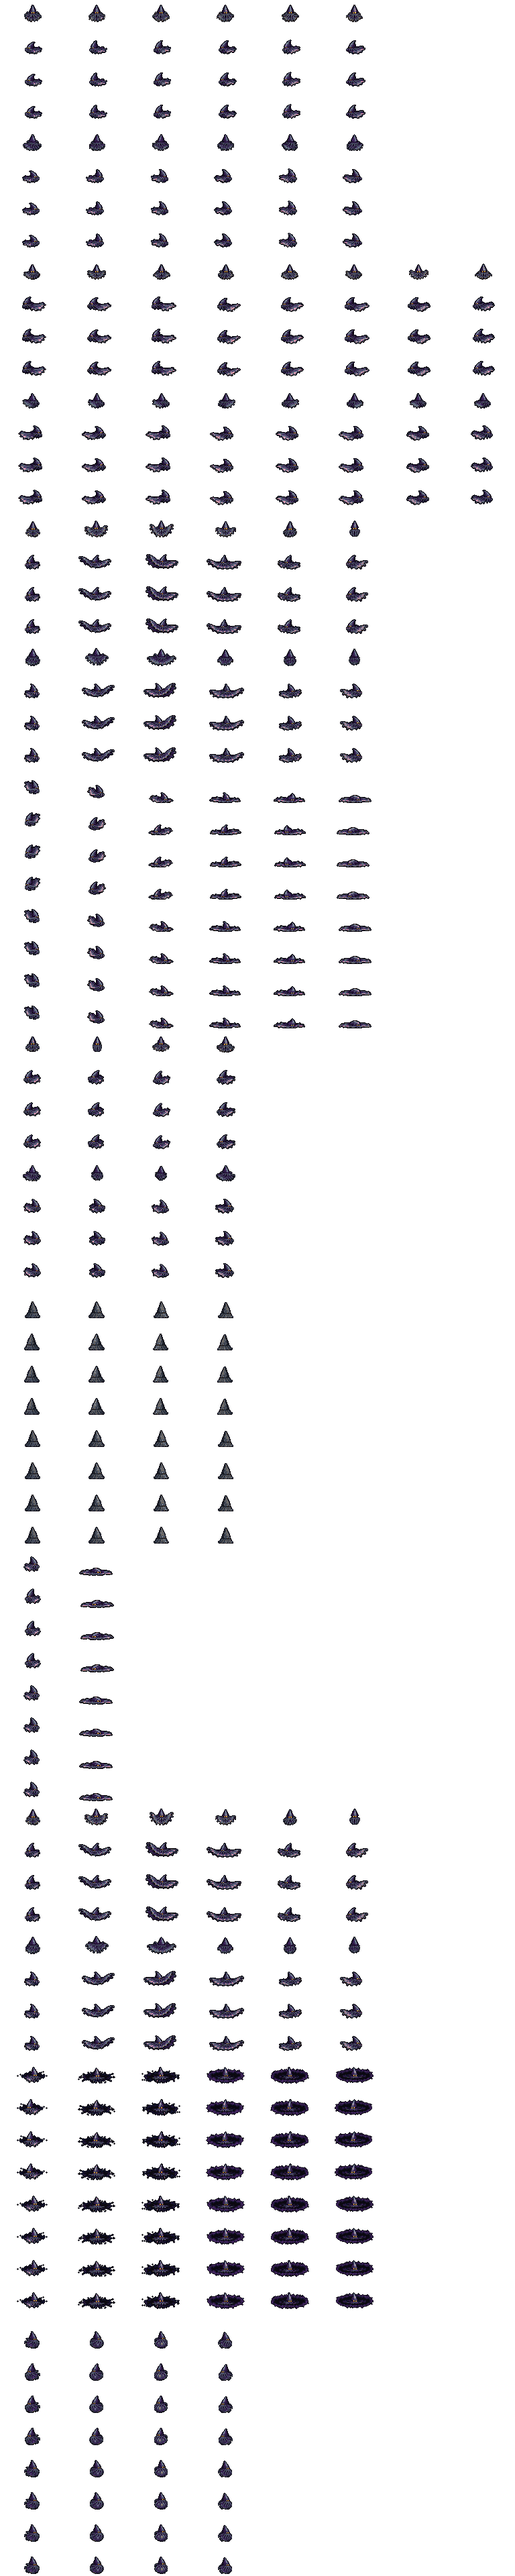
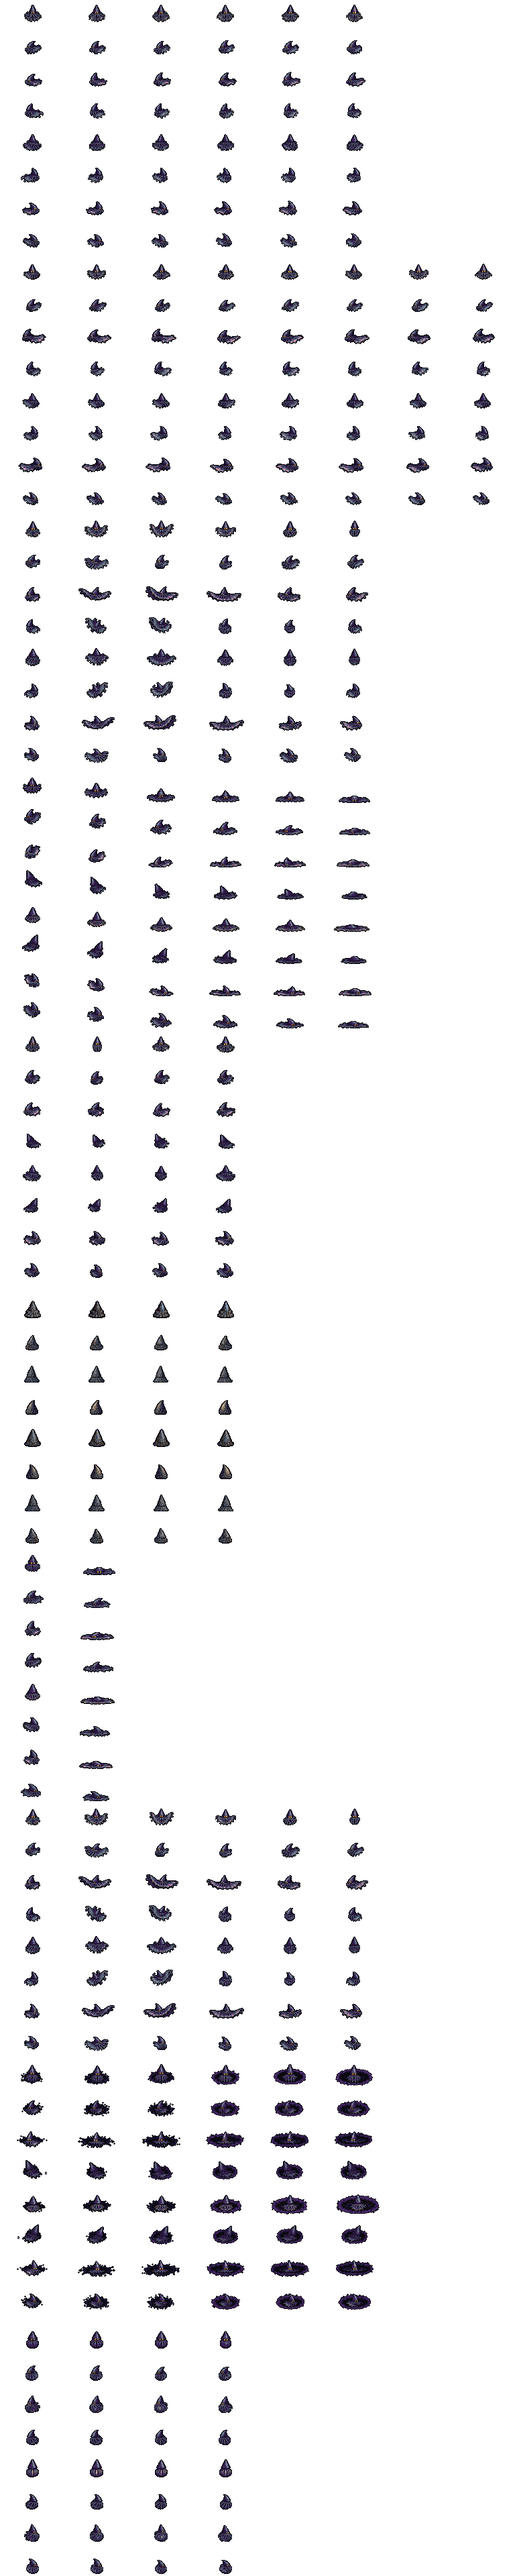
The darkmantle in all eight facings: the art desk's ART-38 cut onto darkmantle_p2 (SE/SW, NE/NW every row; S and N the rest)
ART-38's eight pages (sorted out of Fresh to deep16/_src/darkmantle/ART-38/) cut by their own row and number labels in
tools/darkmantle-sheet.py, through the four sheets' own frames_of (the hover, Fall's drop, Prone backwards, Clamp's lowest
pixel on ay, Still on the floor): SE and NE every row (Idle, Fly, Crush, Darkness, Flinch, Fall, Prone, Clamp, Still), S and N
Darkness, Fall, Prone, Clamp and Still. E and W, and S and N's Idle, Fly, Crush and Flinch, byte for byte. SE by the mantle
against its side row, S by its upright rows' mantles, NE and N (no eyes) each row by area against its SE or S row; toned by the
mantle to the side idle, the Still to the side's Still. Two label traps: Clamp's 'p' (H2P3) and a Darkness ring touching its
'6' (H5P1). The show plays every row it fights with twice, the Clamp the attach rides on among them.

Griz, 2026-10-21, to the lanes desk: "Spin a single monster cutter instance up (choose your own from Fresh!) and have one
going after another finishes until we approach session limit (90%)".

diff --git a/deep16/data/sprites.js b/deep16/data/sprites.js
@@ -2732,7 +2732,7 @@
 }
 },
 "darkmantle_p2": {
-"image": "art/darkmantle_p2.png?v=7a0ffcf678",
+"image": "art/darkmantle_p2.png?v=ff8d474afc",
 "fw": 96,
 "fh": 48,
 "ax": 48,
@@ -2830,7 +2830,7 @@
 "fps": 3
 }
 },
-"source": "generated by Griz (2026-10-08: the body and its rows, its Clamp and Still, from the front, from behind -- four GPT sheets), cut by tools/darkmantle-sheet.py"
+"source": "generated by Griz (2026-10-08: the body and its rows, its Clamp and Still, from the front, from behind -- four GPT sheets) and the art desk (2026-10-17, ART-38: SE and NE every row, S and N the rest), cut by tools/darkmantle-sheet.py"
 },
 "denny_p2": {
 "image": "art/denny_p2.png?v=19f8ef34a5",

diff --git a/deep16/index.html b/deep16/index.html
@@ -77,7 +77,7 @@
 <script src="js/art.js?v=e1ce4cf012"></script>
 <script src="data/cavern.js?v=647c1a184a"></script>
 <script src="data/maps.js?v=971b4fe9e6"></script>
-<script src="data/sprites.js?v=29da72923a"></script>
+<script src="data/sprites.js?v=3c596d13ee"></script>
 <script src="js/sprites.js?v=132505c283"></script>
 <script src="js/save.js?v=1191d6f29a"></script>
 <script src="data/spells.js?v=b819b6e987"></script>

diff --git a/tools/darkmantle-sheet.py b/tools/darkmantle-sheet.py
@@ -41,6 +41,11 @@ Colour: each later sheet toned to sheet 1 per channel (TONE, mirrorgnoll-sheet.p
 the part every view draws alike; the Clamp's bag glows pink inside): the front and the back by their idles against the turnaround's Front
 and Back, the tricks by its Clamp against the turnaround's Right -- each later sheet drew it warmer. Still keeps its own cave-rock grey
 (the sheet's tone only).
+ART-38 (10-21): the art desk's eight pages give SE (SW mirrored) and NE (NW mirrored) every row, and S and N the rows the front and back
+sheets lacked (Darkness, Fall, Prone, Clamp, Still); E and W, and S and N's Idle, Fly, Crush and Flinch, are as they were. PAGES38 and
+scales38 below: SE by the mantle against its side row, S by its upright rows' mantles, NE and N (no eyes) each row by area against its SE
+or S row; each page toned per channel by the mantle to sheet 1's side idle, and its Still to the side's Still (a rock, one colour).
+    python tools/darkmantle-sheet.py measure    (each page row's K by the mantle and by area, against its side row)
 """
 import os, sys, json, subprocess, tempfile
 import importlib.util
@@ -106,6 +111,52 @@ FPS = {'idle': 5, 'walk': 9, 'attack': 10, 'crush': 10, 'darkness': 8, 'clamp': 
 IDLE_AREA = 322       # the stand-in's side idle (darkmantle_p1 facing E, the median of its 8 frames, outline in): drawn px of ours to match
 HOVER = 12            # every air row's lowest pixel this far over the foot (the owl's): the sheet drew none, see the head
 FH, AY = 48, 44       # (the tallest frame stands 38 px over its foot: crush, the hover in)
+
+# ART-38 (10-21): the art desk drew the views the four sheets lacked (RULED 10-14, five drawn views: S, SE, E, NE, N; SE mirrors to SW, E to W,
+# NE to NW), eight pages in deep16/_src/darkmantle/ART-38/ (sorted out of Fresh by its ART-38-sort.py; the desk's papers in
+# _src/art-desk/received-2026-10-21-ART-38-darkmantle-FINAL-SHEETS/): HEAD 1 SE and HEAD 2 NE every row on three pages (Idle, Fly, Crush;
+# Darkness, Flinch, Fall; Prone, Clamp, Still), HEAD 3 S and HEAD 5 N the rows the front and back sheets lacked (Darkness, Fall, Prone,
+# Clamp, Still). Each row's name at its left, its numbers under it; cut by sheetrows as the four sheets are, by `chan`. Every row goes
+# through the same frames_of as the four sheets' (the hover, Fall's drop, Prone backwards, Clamp's lowest pixel on ay, Still on the floor).
+ART38 = os.path.join(SRC, 'darkmantle', 'ART-38')
+PAGES38 = {
+  'H1P1': dict(file='ART-38_HEAD-1_PAGE-1.png', W=1536, text=[(0, 230, 140, 266), (0, 455, 140, 522), (0, 748, 150, 782)],
+               rows=[('idle', (0, 140, 1536, 324), (303, 321), NUM(6)), ('fly', (0, 330, 1536, 577), (556, 574), NUM(8)),
+                     ('crush', (0, 590, 1536, 848), (826, 845), NUM(6))]),
+  'H1P2': dict(file='ART-38_HEAD-1_PAGE-2.png', W=1536, text=[(0, 258, 150, 290), (0, 519, 140, 550), (0, 795, 140, 827)],
+               rows=[('darkness', (0, 150, 1536, 352), (331, 349), NUM(6)), ('flinch', (0, 400, 1536, 630), (608, 627), NUM(4)),
+                     ('fall', (0, 650, 1536, 890), (866, 887), NUM(6))]),
+  'H1P3': dict(file='ART-38_HEAD-1_PAGE-3.png', W=1774, text=[(0, 210, 150, 248), (0, 440, 150, 488), (0, 680, 150, 720)],
+               rows=[('prone', (0, 140, 1774, 322), (297, 319), NUM(2)), ('clamp', (0, 330, 1774, 556), (533, 553), NUM(4)),
+                     ('still', (0, 570, 1774, 798), (776, 795), NUM(4))]),
+  'H2P1': dict(file='ART-38_HEAD-2_PAGE-1.png', W=1536, text=[(0, 200, 140, 240), (0, 470, 140, 515), (0, 760, 150, 798)],
+               rows=[('idle', (0, 110, 1536, 316), (295, 313), NUM(6)), ('fly', (0, 400, 1536, 586), (565, 583), NUM(8)),
+                     ('crush', (0, 640, 1536, 887), (865, 884), NUM(6))]),
+  'H2P2': dict(file='ART-38_HEAD-2_PAGE-2.png', W=1536, text=[(0, 250, 145, 285), (0, 483, 140, 516), (0, 737, 140, 770)],
+               rows=[('darkness', (0, 150, 1536, 352), (331, 349), NUM(6)), ('flinch', (0, 400, 1536, 597), (576, 594), NUM(4)),
+                     ('fall', (0, 620, 1536, 868), (846, 865), NUM(6))]),
+  'H2P3': dict(file='ART-38_HEAD-2_PAGE-3.png', W=1536, text=[(0, 205, 200, 252), (0, 488, 210, 548), (0, 784, 200, 830)],   # (Clamp's 'p' hangs low)
+               rows=[('prone', (0, 100, 1536, 338), (309, 336), NUM(2)), ('clamp', (0, 345, 1536, 636), (606, 633), NUM(4)),
+                     ('still', (0, 650, 1536, 926), (895, 923), NUM(4))]),
+  'H3P1': dict(file='ART-38_HEAD-3_PAGE-1.png', W=1536, text=[(0, 143, 170, 176), (0, 334, 120, 367), (0, 511, 130, 544), (0, 686, 130, 726), (0, 877, 120, 911)],
+               rows=[('darkness', (0, 50, 1536, 231), (210, 228), NUM(6)), ('fall', (0, 240, 1536, 421), (398, 418), NUM(6)),
+                     ('prone', (0, 430, 1536, 601), (581, 598), NUM(2)), ('clamp', (0, 610, 1536, 784), (764, 781), NUM(4)),
+                     ('still', (0, 795, 1536, 978), (958, 975), NUM(4))]),
+  'H5P1': dict(file='ART-38_HEAD-5_PAGE-1.png', W=1536, text=[(0, 150, 160, 182), (0, 326, 120, 358), (0, 498, 130, 530), (0, 683, 130, 724), (0, 872, 120, 903)],
+               rows=[('darkness', (0, 60, 1536, 229), (205, 226), NUM(6)), ('fall', (0, 240, 1536, 415), (392, 412), NUM(6)),
+                     ('prone', (0, 425, 1536, 577), (557, 574), NUM(2)), ('clamp', (0, 590, 1536, 773), (753, 770), NUM(4)),
+                     ('still', (0, 790, 1536, 963), (943, 960), NUM(4))]),
+}
+# the views each page fills, by the engine's row: SE (SW its mirror), NE (NW its mirror), S and N (their front and back sheets keep idle,
+# walk, crush and attack, and flinch)
+VIEW38 = {}
+for _v, (_p1, _p2, _p3) in (('SE', ('H1P1', 'H1P2', 'H1P3')), ('NE', ('H2P1', 'H2P2', 'H2P3'))):
+    VIEW38[_v] = {'idle': (_p1, 'idle'), 'walk': (_p1, 'fly'), 'attack': (_p1, 'crush'), 'crush': (_p1, 'crush'), 'darkness': (_p2, 'darkness'),
+                  'flinch': (_p2, 'flinch'), 'hurt': (_p2, 'fall'), 'prone': (_p3, 'prone'), 'clamp': (_p3, 'clamp'), 'still': (_p3, 'still')}
+for _v, _p in (('S', 'H3P1'), ('N', 'H5P1')):
+    VIEW38[_v] = {'darkness': (_p, 'darkness'), 'hurt': (_p, 'fall'), 'prone': (_p, 'prone'), 'clamp': (_p, 'clamp'), 'still': (_p, 'still')}
+FACE38 = {7: 'SE', 1: 'SE', 5: 'NE', 3: 'NE', 0: 'S', 4: 'N'}     # (1 and 3 are mirrored where the side's 1-3 always were)
+PAINT38 = {'H5P1': [(1356, 207, 1380, 210)]}   # painted navy before the cut: HEAD 5's Darkness 6 ring touches its number '6' (a line between them)
 
 
 def toned(im, f):
@@ -317,6 +368,85 @@ def tones(c):
     return {L: tuple(float(v) for v in f) for L, f in t.items()}
 
 
+def cut38(L, check=False):
+    s = PAGES38[L]
+    spec = dict(text=s['text'] + [(0, l0 - 3, s['W'], l1 + 4) for _, _, (l0, l1), _ in s['rows']], rows=s['rows'], chan=CHAN)
+    over = [] if check else None
+    path = os.path.join(ART38, s['file'])
+    if L in PAINT38:
+        img = np.asarray(Image.open(path).convert('RGB')).copy()
+        navy = np.median(img.reshape(-1, 3)[::97], axis=0).astype(np.uint8)
+        for x0, y0, x1, y1 in PAINT38[L]:
+            img[y0:y1, x0:x1] = navy
+        path = os.path.join(tempfile.gettempdir(), 'darkmantle-%s.png' % L)
+        Image.fromarray(img).save(path)
+    out = SR.cut_sheet(path, spec, overlay=over, tag=L)
+    if check:
+        d = os.path.join(ROOT, 'dev', 'visions', 'darkmantle'); os.makedirs(d, exist_ok=True)
+        over[0].save(os.path.join(d, 'cut-%s.png' % L))
+    return out
+
+
+SIDE38 = {'idle': (1, 'idle'), 'fly': (1, 'fly'), 'crush': (1, 'crush'), 'darkness': (1, 'darkness'), 'flinch': (1, 'flinch'),
+          'fall': (1, 'fall'), 'prone': (1, 'prone'), 'clamp': (2, 'clamp'), 'still': (2, 'still')}   # each page row's side row, as cut
+
+
+def measure38(c, K, TONE):
+    """each page row's K two ways against its side row: by the mantle (tip to the eyes' middle, the rigid part; rows that show the eyes) and
+    by the area drawn at game size (outline in, the median)"""
+    for L in PAGES38:
+        for row, frs in c[L].items():
+            sl, sr = SIDE38[row]
+            side = c[sl][sr]
+            area = float(np.median([(game_frame(im, K[(sl, sr)], TONE.get(sl))[..., 3] > 0).sum() for _, im, _ in side]))
+            k_area = game_k(frs, area)
+            try:
+                k_m = K[(sl, sr)] * mantle(frs) / mantle(side)
+            except Exception:
+                k_m = float('nan')
+            print('  %s %-8s by area %.2f  by the mantle %s' % (L, row, k_area, '%.2f' % k_m if k_m == k_m else '--'))
+
+
+UPRIGHT = ('idle', 'fly', 'crush', 'darkness', 'flinch', 'clamp')   # rows whose mantle stands up: the tip-to-eyes measure holds
+
+
+def scales38(c, K):
+    """K per page row, the four sheets' way: SE by the mantle against its side row (the rows that lie or are a rock -- fall, prone, still --
+    by the page's upright rows' median); S by its upright rows' mantles (darkness, clamp: one K for the page; its fall and prone lie, and
+    measured alone they read 4.30 and 4.56 against the area's 5.10 and 4.87); NE and N, which show no eyes, each row by area against its
+    SE or S row (one motion from both sides, as the back sheet meets the front). The measure38 table is in the ENGINE-RETURN of 10-21h."""
+    def k_m(L, row):
+        sl, sr = SIDE38[row]
+        return K[(sl, sr)] * mantle(c[L][row]) / mantle(c[sl][sr])
+    med = lambda frs: float(np.median([body(im)[0] for _, im, _ in frs]))
+    K38 = {}
+    for L in ('H1P1', 'H1P2', 'H1P3'):
+        up = {r: k_m(L, r) for r in c[L] if r in UPRIGHT}
+        for r in c[L]:
+            K38[(L, r)] = up.get(r, float(np.median(list(up.values()))))
+    ks = float(np.median([k_m('H3P1', r) for r in ('darkness', 'clamp')]))
+    for r in c['H3P1']:
+        K38[('H3P1', r)] = ks
+    for Lb, La in (('H2P1', 'H1P1'), ('H2P2', 'H1P2'), ('H2P3', 'H1P3'), ('H5P1', 'H3P1')):
+        for r in c[Lb]:
+            K38[(Lb, r)] = K38[(La, r)] * med(c[Lb][r]) / med(c[La][r])
+    print('  K38: ' + ', '.join('%s %s %.2f' % (L, r, k) for (L, r), k in K38.items()))
+    return K38
+
+
+def tones38(c, tones_side):
+    """per channel, each page brought to sheet 1's side idle by the mantle's colour (cone_rgb), its darkness (the ring) and still (a rock) left
+    out of the measure (the tone is put on them too)"""
+    ref = cone_rgb(c[1]['idle'])
+    t = {L: ref / cone_rgb([fr for r, frs in c[L].items() if r not in ('darkness', 'still') for fr in frs]) for L in PAGES38}
+    # the Still is a rock, its own colour: each page's met per channel to the side's Still as built (sheet 2's, its tone in) by the mean --
+    # the pages drew it brown from the front and behind, grey-blue at SE, purplish at NE (the art desk's own note: materials differ)
+    rock = mean_rgb(c[2]['still']) * np.array(tones_side[2])
+    t.update({(L, 'still'): rock / mean_rgb(c[L]['still']) for L in PAGES38 if 'still' in c[L]})
+    print('  TONE38: ' + ', '.join('%s %s' % (L, ' '.join('%.3f' % v for v in f)) for L, f in t.items()))
+    return {L: tuple(float(v) for v in f) for L, f in t.items()}
+
+
 def place(a, x_ref, foot, up, fw, ax):
     """a 1x RGBA array onto an fw x FH frame: x_ref at ax, its row `foot` `up` px above AY"""
     out = np.zeros((FH, fw, 4), dtype=np.uint8)
@@ -328,10 +458,16 @@ def place(a, x_ref, foot, up, fw, ax):
     return out, (a[..., 3] > 0).sum() > (out[..., 3] > 0).sum()
 
 
-def main(check=False):
+def main(check=False, measure=False):
     c = {L: cut(L, check) for L in SHEETS}
     K = scales(c)
     TONE = tones(c)
+    c.update({L: cut38(L, check) for L in PAGES38})
+    if measure:
+        measure38(c, K, TONE)
+        return
+    K.update(scales38(c, K))
+    TONE.update(tones38(c, TONE))
     small = {}
     def frames_of(L, row):
         """the row's frames at game size: (array, x of its middle, its foot row in the array, how far its foot is over the floor)"""
@@ -341,7 +477,7 @@ def main(check=False):
             floor = max(foot_s)
             out = []
             for (nm, im, box), fs in zip(frs, foot_s):
-                a = game_frame(im, K[(L, row)], TONE.get(L))
+                a = game_frame(im, K[(L, row)], TONE.get((L, row), TONE.get(L)))
                 bottom = int(np.where(a[..., 3].any(axis=1))[0][-1])
                 foot = bottom if row != 'darkness' else min(bottom, int(round((fs - box[1]) * a.shape[0] / im.size[1])))
                 up = int(round((floor - fs) / K[(L, row)])) + (HOVER if row in AIR else 0)
@@ -357,7 +493,10 @@ def main(check=False):
         side = frames_of(L, row)
         per = []
         for f in range(8):
-            if f == 0 and L == 1 and row in FRONT:
+            v = FACE38.get(f)
+            if v and eng in VIEW38[v]:                            # ART-38: S, SE, NE, N in their own view (SW and NW flipped below)
+                per.append(frames_of(*VIEW38[v][eng]))
+            elif f == 0 and L == 1 and row in FRONT:
                 per.append(frames_of(3, row))
             elif f == 4 and L == 1 and row in BACK:
                 per.append(frames_of(4, row))
@@ -394,7 +533,7 @@ def main(check=False):
     for row, fps in FPS.items():
         meta['anims'][row]['fps'] = fps
     meta['source'] = ('generated by Griz (2026-10-08: the body and its rows, its Clamp and Still, from the front, from behind -- four GPT '
-                      'sheets), cut by tools/darkmantle-sheet.py')
+                      'sheets) and the art desk (2026-10-17, ART-38: SE and NE every row, S and N the rest), cut by tools/darkmantle-sheet.py')
     json.dump(meta, open(meta_p, 'w'), indent=1)
     side = [(fr[..., 3] > 0).sum() for fr in frames['idle'][6]]
     print('  the side idle: a median %d px drawn (the stand-in %d), %d px tall; hover %d px; the clamp %d px wide'
@@ -479,4 +618,4 @@ def facings(frames, sizes, path):
 
 
 if __name__ == '__main__':
-    main(check='check' in sys.argv[1:])
+    main(check='check' in sys.argv[1:], measure='measure' in sys.argv[1:])
